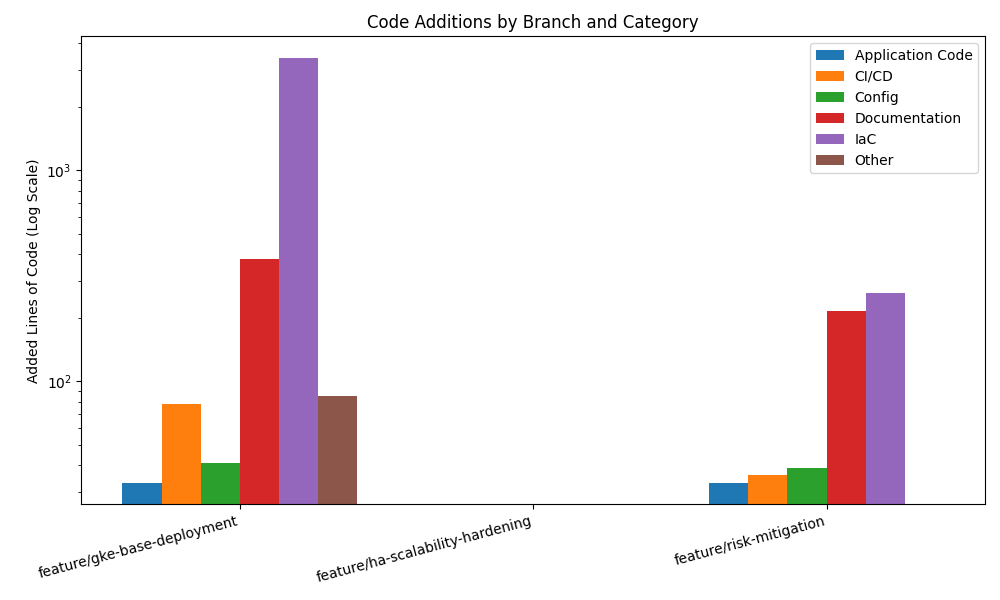
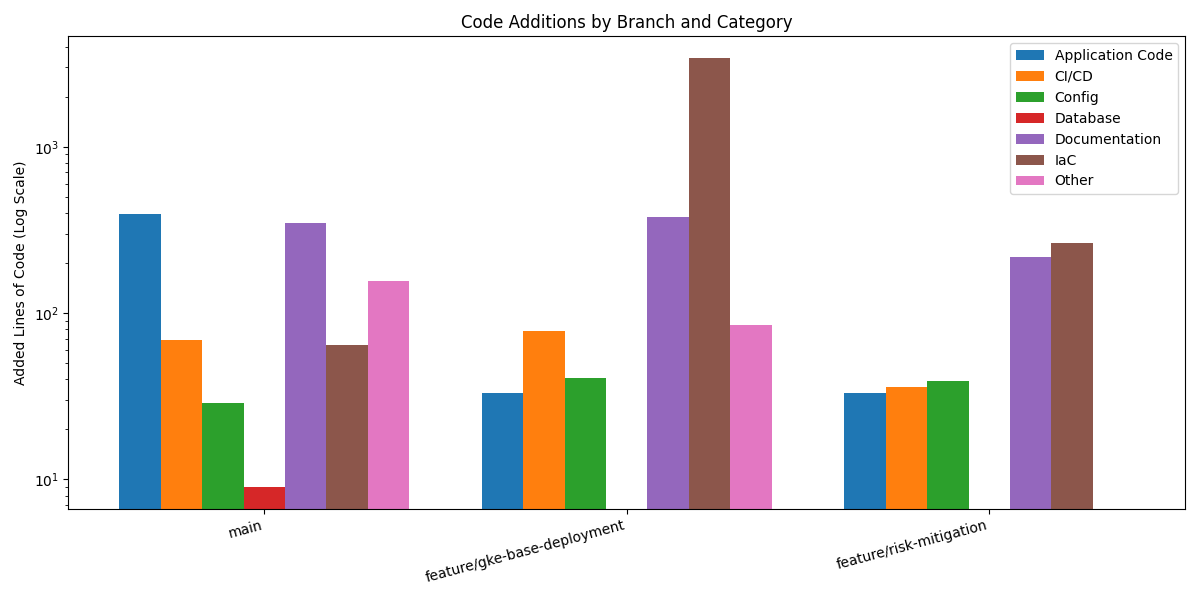
Include main in chart and filter empty branches

diff --git a/analyze_repo.py b/analyze_repo.py
@@ -88,8 +88,14 @@ def generate_chart(report):
         import matplotlib.pyplot as plt
         import numpy as np
         
-        branches = list(report['branches'].keys())
-        categories = sorted(list({k for b in report['branches'].values() for k in b.keys()}))
+        # Combine main and branches, filtering out empty ones
+        data = {'main': report['main']}
+        for name, stats in report['branches'].items():
+            if stats and sum(stats.values()) > 0:
+                data[name] = stats
+        
+        branches = list(data.keys())
+        categories = sorted(list({k for b in data.values() for k in b.keys()}))
         
         if not categories:
             print("No data to plot.")
@@ -98,10 +104,10 @@ def generate_chart(report):
         x = np.arange(len(branches))
         width = 0.8 / len(categories)
         
-        fig, ax = plt.subplots(figsize=(10, 6))
+        fig, ax = plt.subplots(figsize=(12, 6))
         
         for i, cat in enumerate(categories):
-            vals = [report['branches'][b].get(cat, 0) for b in branches]
+            vals = [data[b].get(cat, 0) for b in branches]
             offset = width * i
             rects = ax.bar(x + offset, vals, width, label=cat)
             
